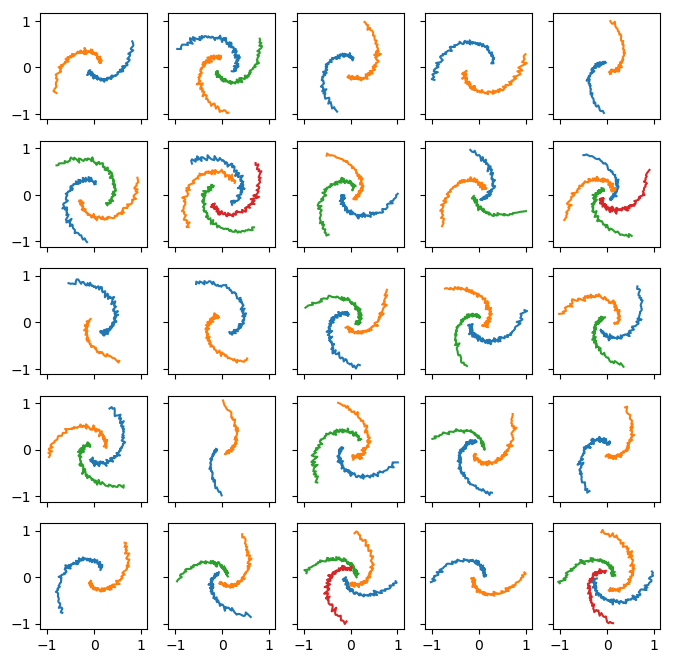
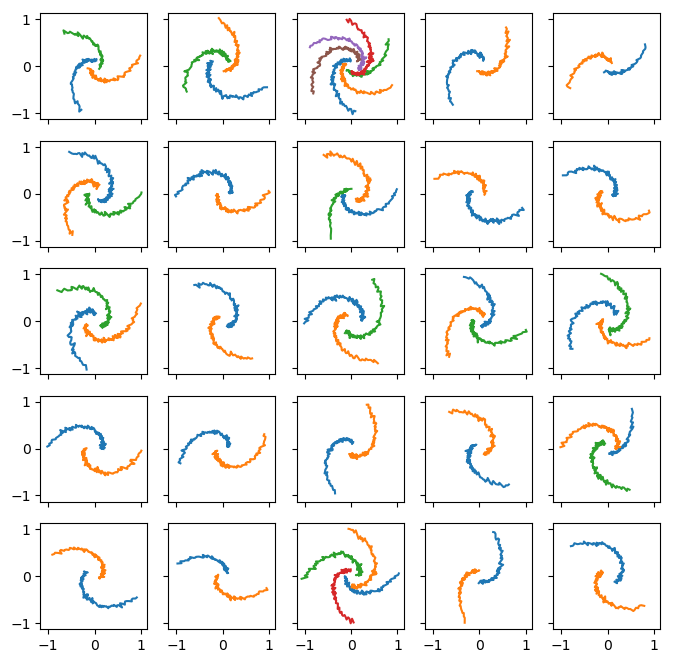
converges with (incorrect) result for test sample

diff --git a/do_model.py b/do_model.py
@@ -1,70 +1,39 @@
+import sys
 import os
 import numpy as np
 import pandas as pd
-import scipy.stats as st
+# import scipy.stats as st
 import pymc3 as pm
 import theano.tensor as tt
 import matplotlib.pyplot as plt
 from gzbuilder_analysis.spirals import xy_from_r_theta
-import sample_generation as sg
-import argparse
+import super_simple.sample_generation as sg
+# import argparse
 from tqdm import tqdm
 
+agg_results = pd.read_pickle('lib/aggregation_results.pickle')
 
-loc = os.path.abspath(os.path.dirname(__file__))
-parser = argparse.ArgumentParser(
-    description=(
-        'Fit Aggregate model and best individual'
-        ' model for a galaxy builder subject'
-    )
-)
-parser.add_argument('--ngals', '-n', metavar='N', default=25,
-                    type=int, help='Number of galaxies in sample')
-parser.add_argument('--mu', metavar='N', default=20,
-                    type=str, help='Global mean pitch angle')
-parser.add_argument('--sd', metavar='N', default=5,
-                    type=str, help='Inter-galaxy pitch angle std')
-parser.add_argument('--sd2', metavar='N', default=10,
-                    type=str, help='Intra-galaxy pitch angle std')
+sid_list = agg_results.index.values
 
-args = parser.parse_args()
+galaxies = [
+    [
+        np.array((arm.t * arm.chirality, arm.R))
+        for arm in galaxy
+    ]
+    for galaxy in agg_results.Arms.values
+    if len(galaxy) > 1
+]
 
-# Base parameter definition
-N_GALS = args.ngals
-BASE_PA = args.mu
-INTER_GAL_SD = args.sd
-INTRA_GAL_SD = args.sd2
-N_POINTS = 100
-PA_LIMS = (0.1, 60)
+# reduce the sample size for testing purposes
+np.random.seed(0)
+galaxies = np.array(galaxies)[
+    np.random.choice(np.arange(len(galaxies)), size=25, replace=False)
+]
 
-print((
-    'Making sample of {} galaxies with global mean pa {:.2f}'
-    '\nInter-galaxy pitch angle std: {:.2e}'
-    '\nIntra-galaxy pitch angle std: {:.2e}'
-).format(N_GALS, BASE_PA, INTER_GAL_SD, INTRA_GAL_SD))
-
-gal_pas = st.truncnorm.rvs(*PA_LIMS, loc=BASE_PA, scale=INTER_GAL_SD,
-                           size=N_GALS)
-gal_n_arms = [np.random.poisson(0.75) + 2 for i in range(N_GALS)]
-
-print('Input galaxies:')
-print(pd.DataFrame({
-    'Pitch angle': gal_pas,
-    'Arm number': gal_n_arms
-}).describe())
-
-# map from arm to galaxy (so gal_arm_map[5] = 3 means the 5th arm is from the
-# 3rd galaxy)
+gal_n_arms = [len(g) for g in galaxies]
 gal_arm_map = np.concatenate([
     np.tile(i, n) for i, n in enumerate(gal_n_arms)
 ])
-
-# Generate our galaxies
-galaxies = [
-    sg.gen_galaxy(gal_n_arms[i], gal_pas[i], INTRA_GAL_SD, N=N_POINTS)
-    for i in range(N_GALS)
-]
-
 # Create an array containing needed information in a stacked form
 point_data = np.concatenate([
     np.stack((
@@ -77,12 +46,66 @@ point_data = np.concatenate([
     for arm_n, (arm_T, arm_R) in enumerate(galaxy)
 ])
 
+# scale R from 0 to 1
+point_data[:, 1] /= np.max(point_data[:, 1])
+
+# mask out low values of R
+r_lower_bound_mask = point_data[:, 1] > 0.05
+point_data = point_data[r_lower_bound_mask]
+
 T, R, arm_idx, gal_idx = point_data.T
+print(pd.Series(R).describe())
+
 arm_idx = arm_idx.astype(int)
 
 # ensure the arm indexing makes sense
 assert np.all((np.unique(arm_idx) - np.arange(sum(gal_n_arms))) == 0)
 
+print('{} Galaxies'.format(len(galaxies)))
+print('Mean of {} arms per galaxy'.format(np.mean([len(g) for g in galaxies])))
+print('Median of {} arms per galaxy'.format(
+    np.median([len(g) for g in galaxies])
+))
+print('{} arms in total'.format(sum(gal_n_arms)))
+print('{} data points'.format(len(R)))
+
+loc = os.path.abspath(os.path.dirname(__file__))
+N_GALS = len(galaxies)
+
+gal_separate_fit_params = pd.Series([])
+with tqdm([galaxy for galaxy in galaxies]) as bar:
+    for i, gal in enumerate(bar):
+        gal_separate_fit_params.loc[i] = [
+            sg.fit_log_spiral(*arm)
+            for arm in gal
+        ]
+arm_separate_fit_params = pd.DataFrame(
+    [j for _, i in gal_separate_fit_params.items() for j in i],
+    columns=('pa', 'c')
+)
+
+print(arm_separate_fit_params.describe())
+
+# plot all the "galaxies" used
+s = int(np.ceil(np.sqrt(N_GALS)))
+f, axs_grid = plt.subplots(
+    ncols=s, nrows=s,
+    sharex=True, sharey=True,
+    figsize=(8, 8), dpi=100
+)
+axs = [j for i in axs_grid for j in i]
+for i, ax in enumerate(axs):
+    plt.sca(ax)
+    try:
+        for arm in galaxies[i]:
+            plt.plot(*xy_from_r_theta(arm[1], arm[0]), '.', markersize=1)
+    except IndexError:
+        pass
+plt.savefig(
+    os.path.join(loc, 'plots/sample.png'),
+    bbox_inches='tight'
+)
+# sys.exit(0)
 # Define Stochastic variables
 with pm.Model() as model:
     # model r = a * exp(tan(phi) * t) + sigma as r = exp(b * t + c) + sigma,
@@ -99,10 +122,10 @@ with pm.Model() as model:
     )
 
     # inter-galaxy dispersion
-    global_pa_sd = pm.InverseGamma('pa_sd', alpha=1, beta=3)
+    global_pa_sd = pm.InverseGamma('pa_sd', alpha=1, beta=5)
 
     # intra-galaxy dispersion
-    gal_pa_sd = pm.InverseGamma('gal_pa_sd', alpha=1, beta=3)
+    gal_pa_sd = pm.InverseGamma('gal_pa_sd', alpha=1, beta=5)
 
     # arm offset parameter
     arm_c = pm.Cauchy('c', alpha=0, beta=10, shape=len(gal_arm_map),
@@ -194,7 +217,7 @@ with model:
     try:
         pm.model_to_graphviz(model)
         plt.savefig(
-            os.path.join(loc, 'plots/many_galaxies_model.png'),
+            os.path.join(loc, 'plots/model.png'),
             bbox_inches='tight'
         )
         plt.close()
@@ -208,14 +231,9 @@ print(pm.summary(trace).round(2).sort_values(by='Rhat', ascending=False))
 pm.traceplot(
     trace,
     var_names=('pa', 'pa_sd', 'gal_pa_sd', 'sigma'),
-    lines=(
-        ('pa_scaled', {}, BASE_PA),
-        ('pa_sd', {}, INTER_GAL_SD),
-        ('gal_pa_sd', {}, INTRA_GAL_SD),
-    )
 )
 plt.savefig(
-    os.path.join(loc, 'plots/many_galaxies_trace.png'),
+    os.path.join(loc, 'plots/trace.png'),
     bbox_inches='tight'
 )
 plt.close()
@@ -230,26 +248,6 @@ plt.savefig(
     bbox_inches='tight'
 )
 plt.close()
-
-# plot all the "galaxies" used
-s = int(np.ceil(np.sqrt(N_GALS)))
-f, axs_grid = plt.subplots(
-    ncols=s, nrows=s,
-    sharex=True, sharey=True,
-    figsize=(8, 8), dpi=100
-)
-axs = [j for i in axs_grid for j in i]
-for i, ax in enumerate(axs):
-    plt.sca(ax)
-    try:
-        for arm in galaxies[i]:
-            plt.plot(*xy_from_r_theta(arm[1], arm[0]))
-    except IndexError:
-        pass
-plt.savefig(
-    os.path.join(loc, 'plots/many_galaxies.png'),
-    bbox_inches='tight'
-)
 
 # make a plot showing arm predictions
 with model:
@@ -292,18 +290,6 @@ plt.savefig(
     bbox_inches='tight'
 )
 
-gal_separate_fit_params = pd.Series([])
-with tqdm([galaxy for galaxy in galaxies]) as bar:
-    for i, gal in enumerate(bar):
-        gal_separate_fit_params.loc[i] = [
-            sg.fit_log_spiral(*arm)
-            for arm in gal
-        ]
-arm_separate_fit_params = pd.DataFrame(
-    [j for _, i in gal_separate_fit_params.items() for j in i],
-    columns=('pa', 'c')
-)
-
 f, axs_grid = plt.subplots(
     ncols=s, nrows=s,
     sharex=True, sharey=True,
@@ -342,6 +328,6 @@ for i, ax in enumerate(axs):
     except IndexError:
         pass
 plt.savefig(
-    os.path.join(loc, 'plots/many_galaxies_prediction_comparison.png'),
+    os.path.join(loc, 'plots/prediction_comparison.png'),
     bbox_inches='tight'
 )
